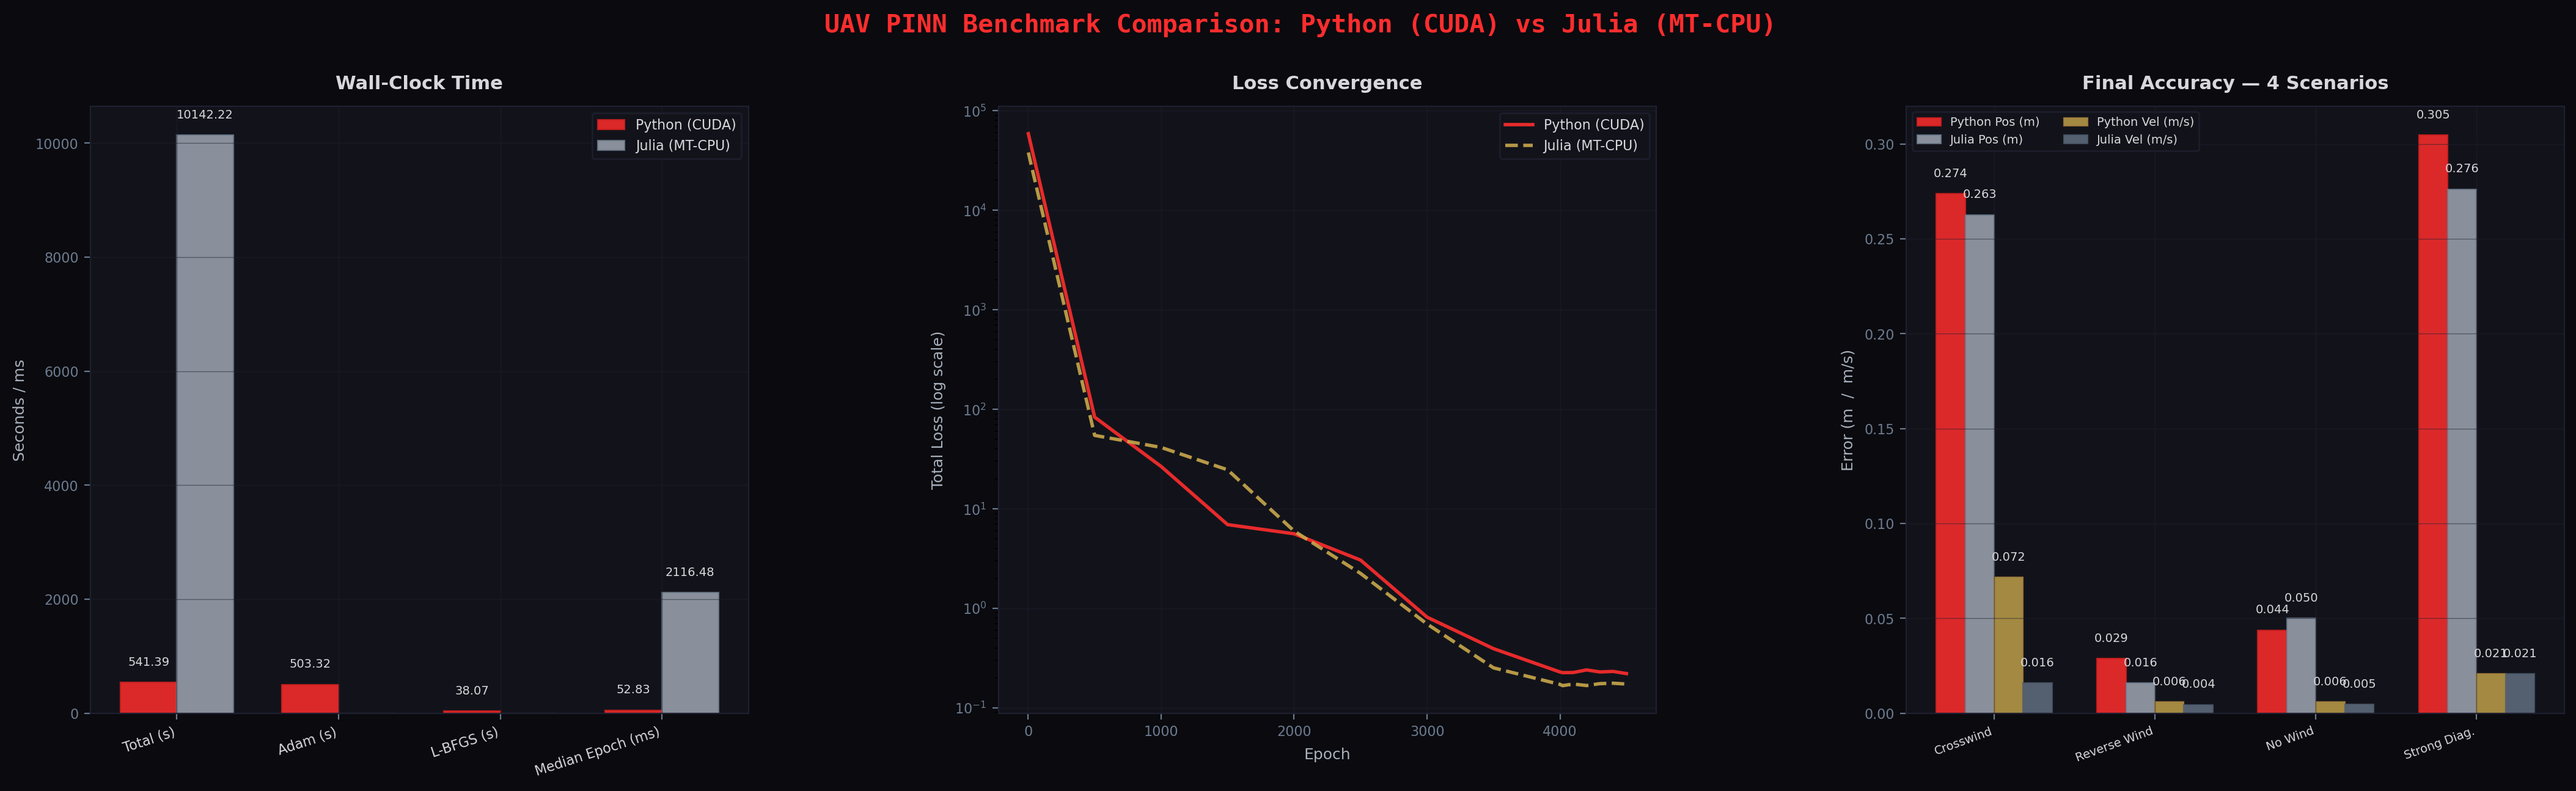
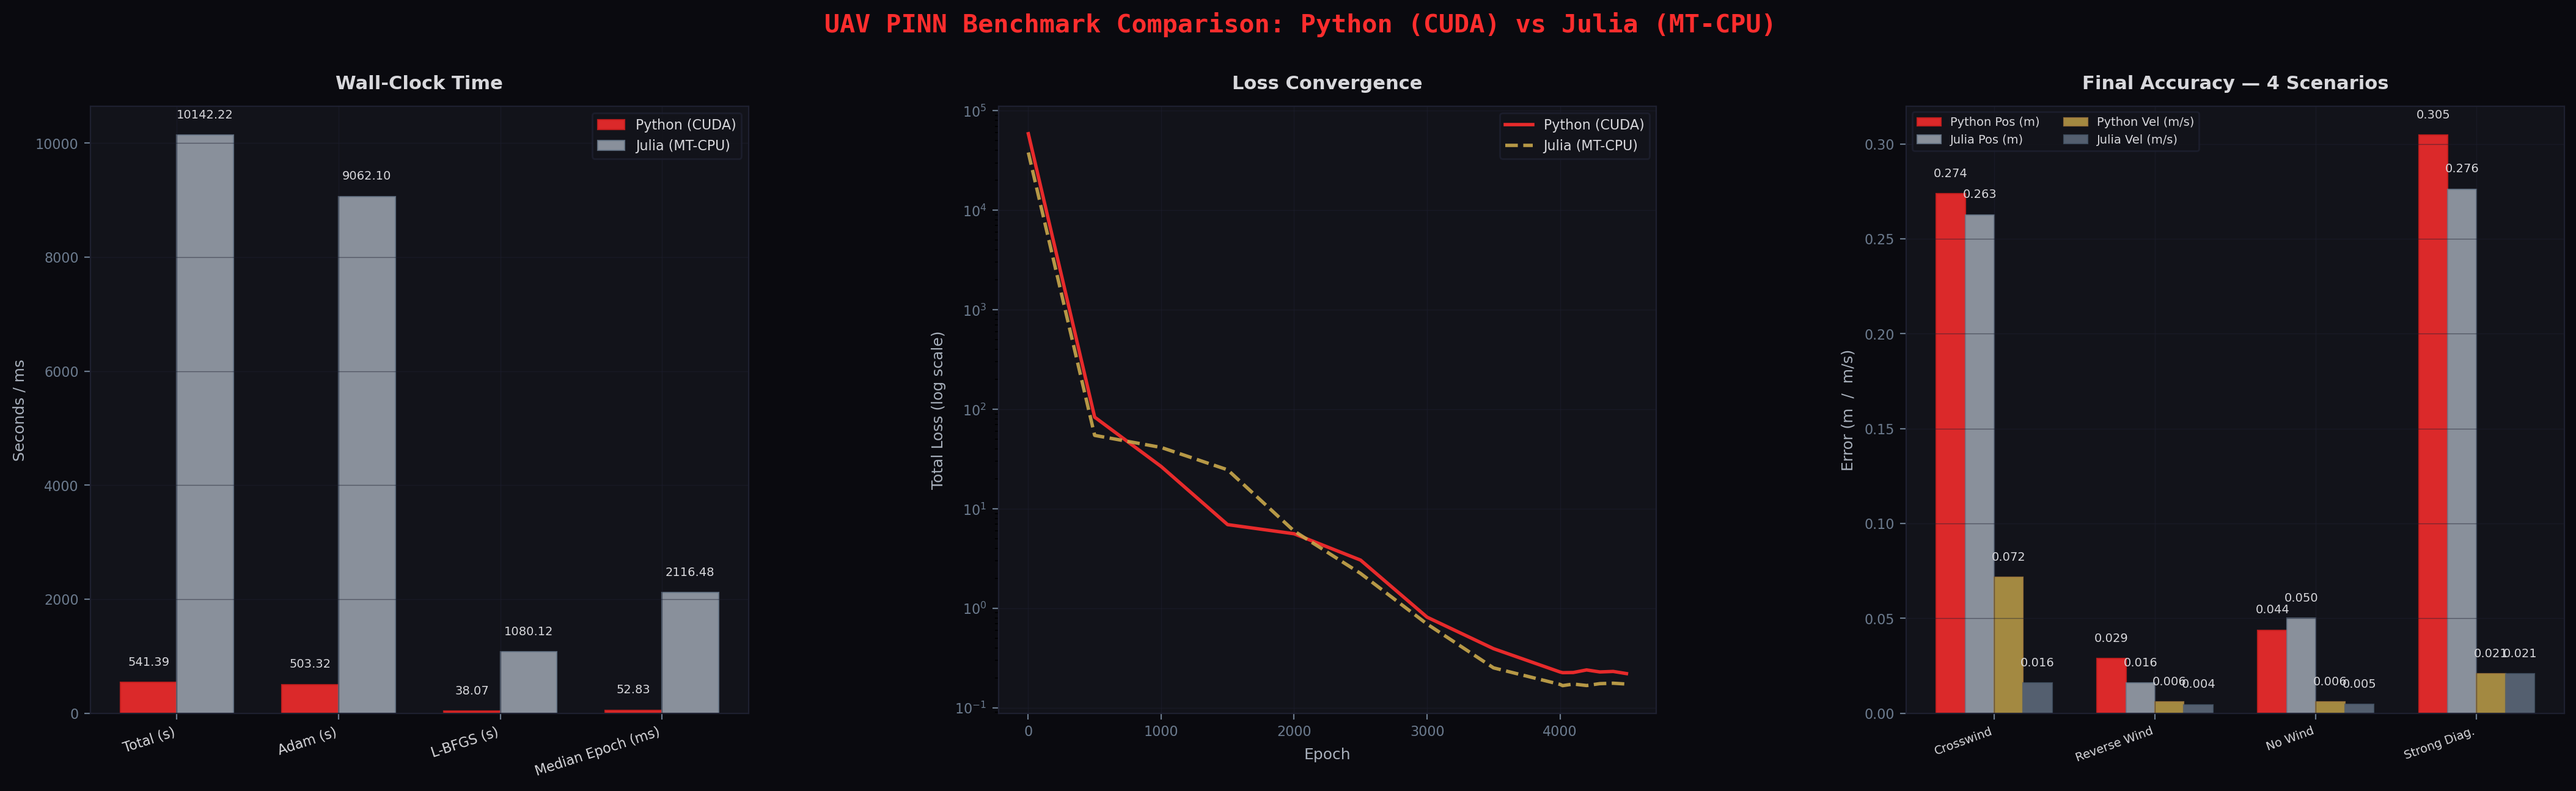
Add files via upload

Changed region(s): [[0.1243, 0.2471, 0.1554, 0.9266], [0.1865, 0.8031, 0.2176, 0.9266]]

diff --git a/compare_benchmarks.py b/compare_benchmarks.py
@@ -123,6 +123,48 @@ def get_float(d, *keys):
     return None
 
 
+def read_phase_times_from_profiling(wb):
+    """Compute Adam and L-BFGS wall-clock times from the Training Profiling sheet.
+
+    Both Python and Julia exports write per-epoch rows with a Phase column
+    ('adam' / 'lbfgs') and a cumulative Wall Time column.  We derive:
+        adam_time  = max wall_time among adam rows
+        lbfgs_time = max wall_time overall - adam_time
+    Returns (adam_time, lbfgs_time); either may be None if data is absent.
+    """
+    if wb is None or 'Training Profiling' not in wb.sheetnames:
+        return None, None
+    ws = wb['Training Profiling']
+
+    # Locate Phase and Wall-Time columns from the header row
+    header = [c.value for c in next(ws.iter_rows(min_row=1, max_row=1))]
+    phase_col = next(
+        (i for i, h in enumerate(header)
+         if h and 'phase' in str(h).lower()), None)
+    wall_col = next(
+        (i for i, h in enumerate(header)
+         if h and 'wall' in str(h).lower() and 'time' in str(h).lower()), None)
+
+    if phase_col is None or wall_col is None:
+        return None, None
+
+    adam_max  = 0.0
+    total_max = 0.0
+    for row in ws.iter_rows(min_row=2, values_only=True):
+        phase = str(row[phase_col]).strip().lower() if row[phase_col] is not None else ''
+        try:
+            t = float(row[wall_col])
+        except (TypeError, ValueError):
+            continue
+        if phase == 'adam':
+            adam_max = max(adam_max, t)
+        total_max = max(total_max, t)
+
+    adam_time  = round(adam_max, 2)              if adam_max  > 0 else None
+    lbfgs_time = round(total_max - adam_max, 2)  if total_max > adam_max else None
+    return adam_time, lbfgs_time
+
+
 # ─── Plot helpers ──────────────────────────────────────────────────────────────
 
 def style_ax(ax, title, xlabel, ylabel):
@@ -190,9 +232,19 @@ def main():
     total_py = get_float(sum_py, "Total Wall Time (s)", "Total Time(s)")
     total_jl = get_float(sum_jl, "Total Time(s)", "Total Wall Time (s)")
     adam_py  = get_float(sum_py, "Adam Phase Time (s)")
-    adam_jl  = get_float(sum_jl, "Adam Phase Time (s)")
     lbfgs_py = get_float(sum_py, "L-BFGS Phase Time (s)")
+    # Fallback: derive phase times from Training Profiling sheet
+    if adam_py is None or lbfgs_py is None:
+        _ap, _lp = read_phase_times_from_profiling(wb_py)
+        if adam_py  is None: adam_py  = _ap
+        if lbfgs_py is None: lbfgs_py = _lp
+    adam_jl  = get_float(sum_jl, "Adam Phase Time (s)")
     lbfgs_jl = get_float(sum_jl, "L-BFGS Phase Time (s)")
+    # Julia never writes phase times to Summary — always fall back
+    if adam_jl is None or lbfgs_jl is None:
+        _aj, _lj = read_phase_times_from_profiling(wb_jl)
+        if adam_jl  is None: adam_jl  = _aj
+        if lbfgs_jl is None: lbfgs_jl = _lj
     med_py   = get_float(sum_py, "Median Epoch Time (ms)", "Med Epoch(ms)")
     med_jl   = get_float(sum_jl, "Med Epoch(ms)", "Median Epoch Time (ms)")
 
